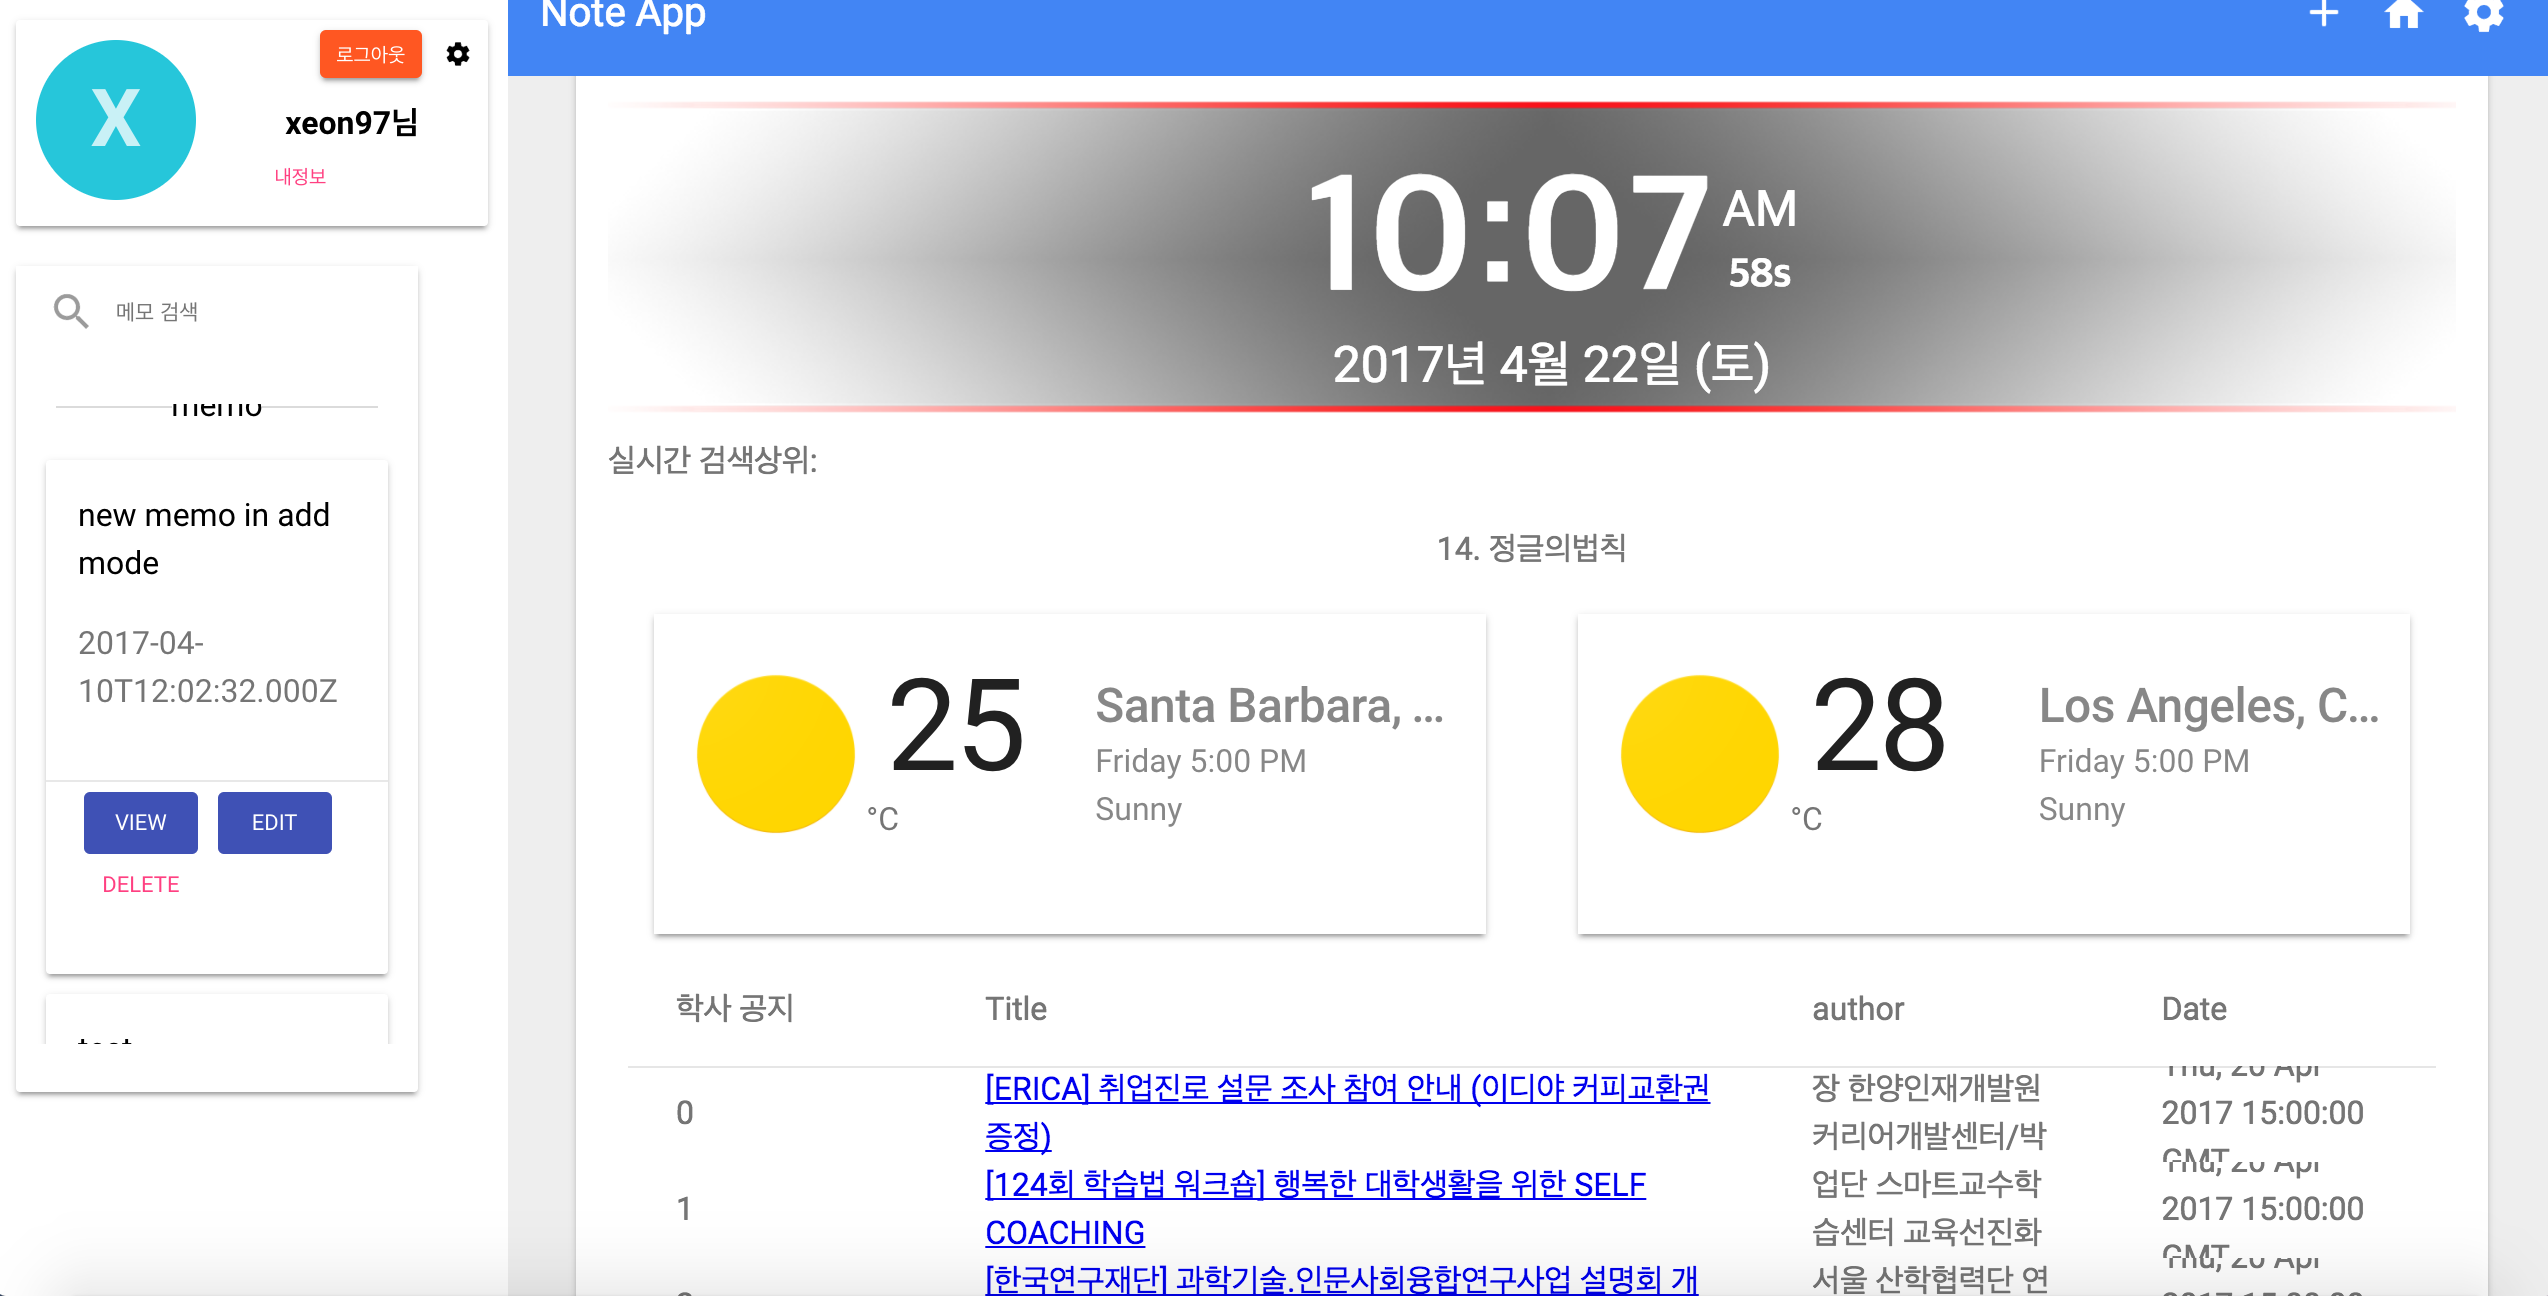
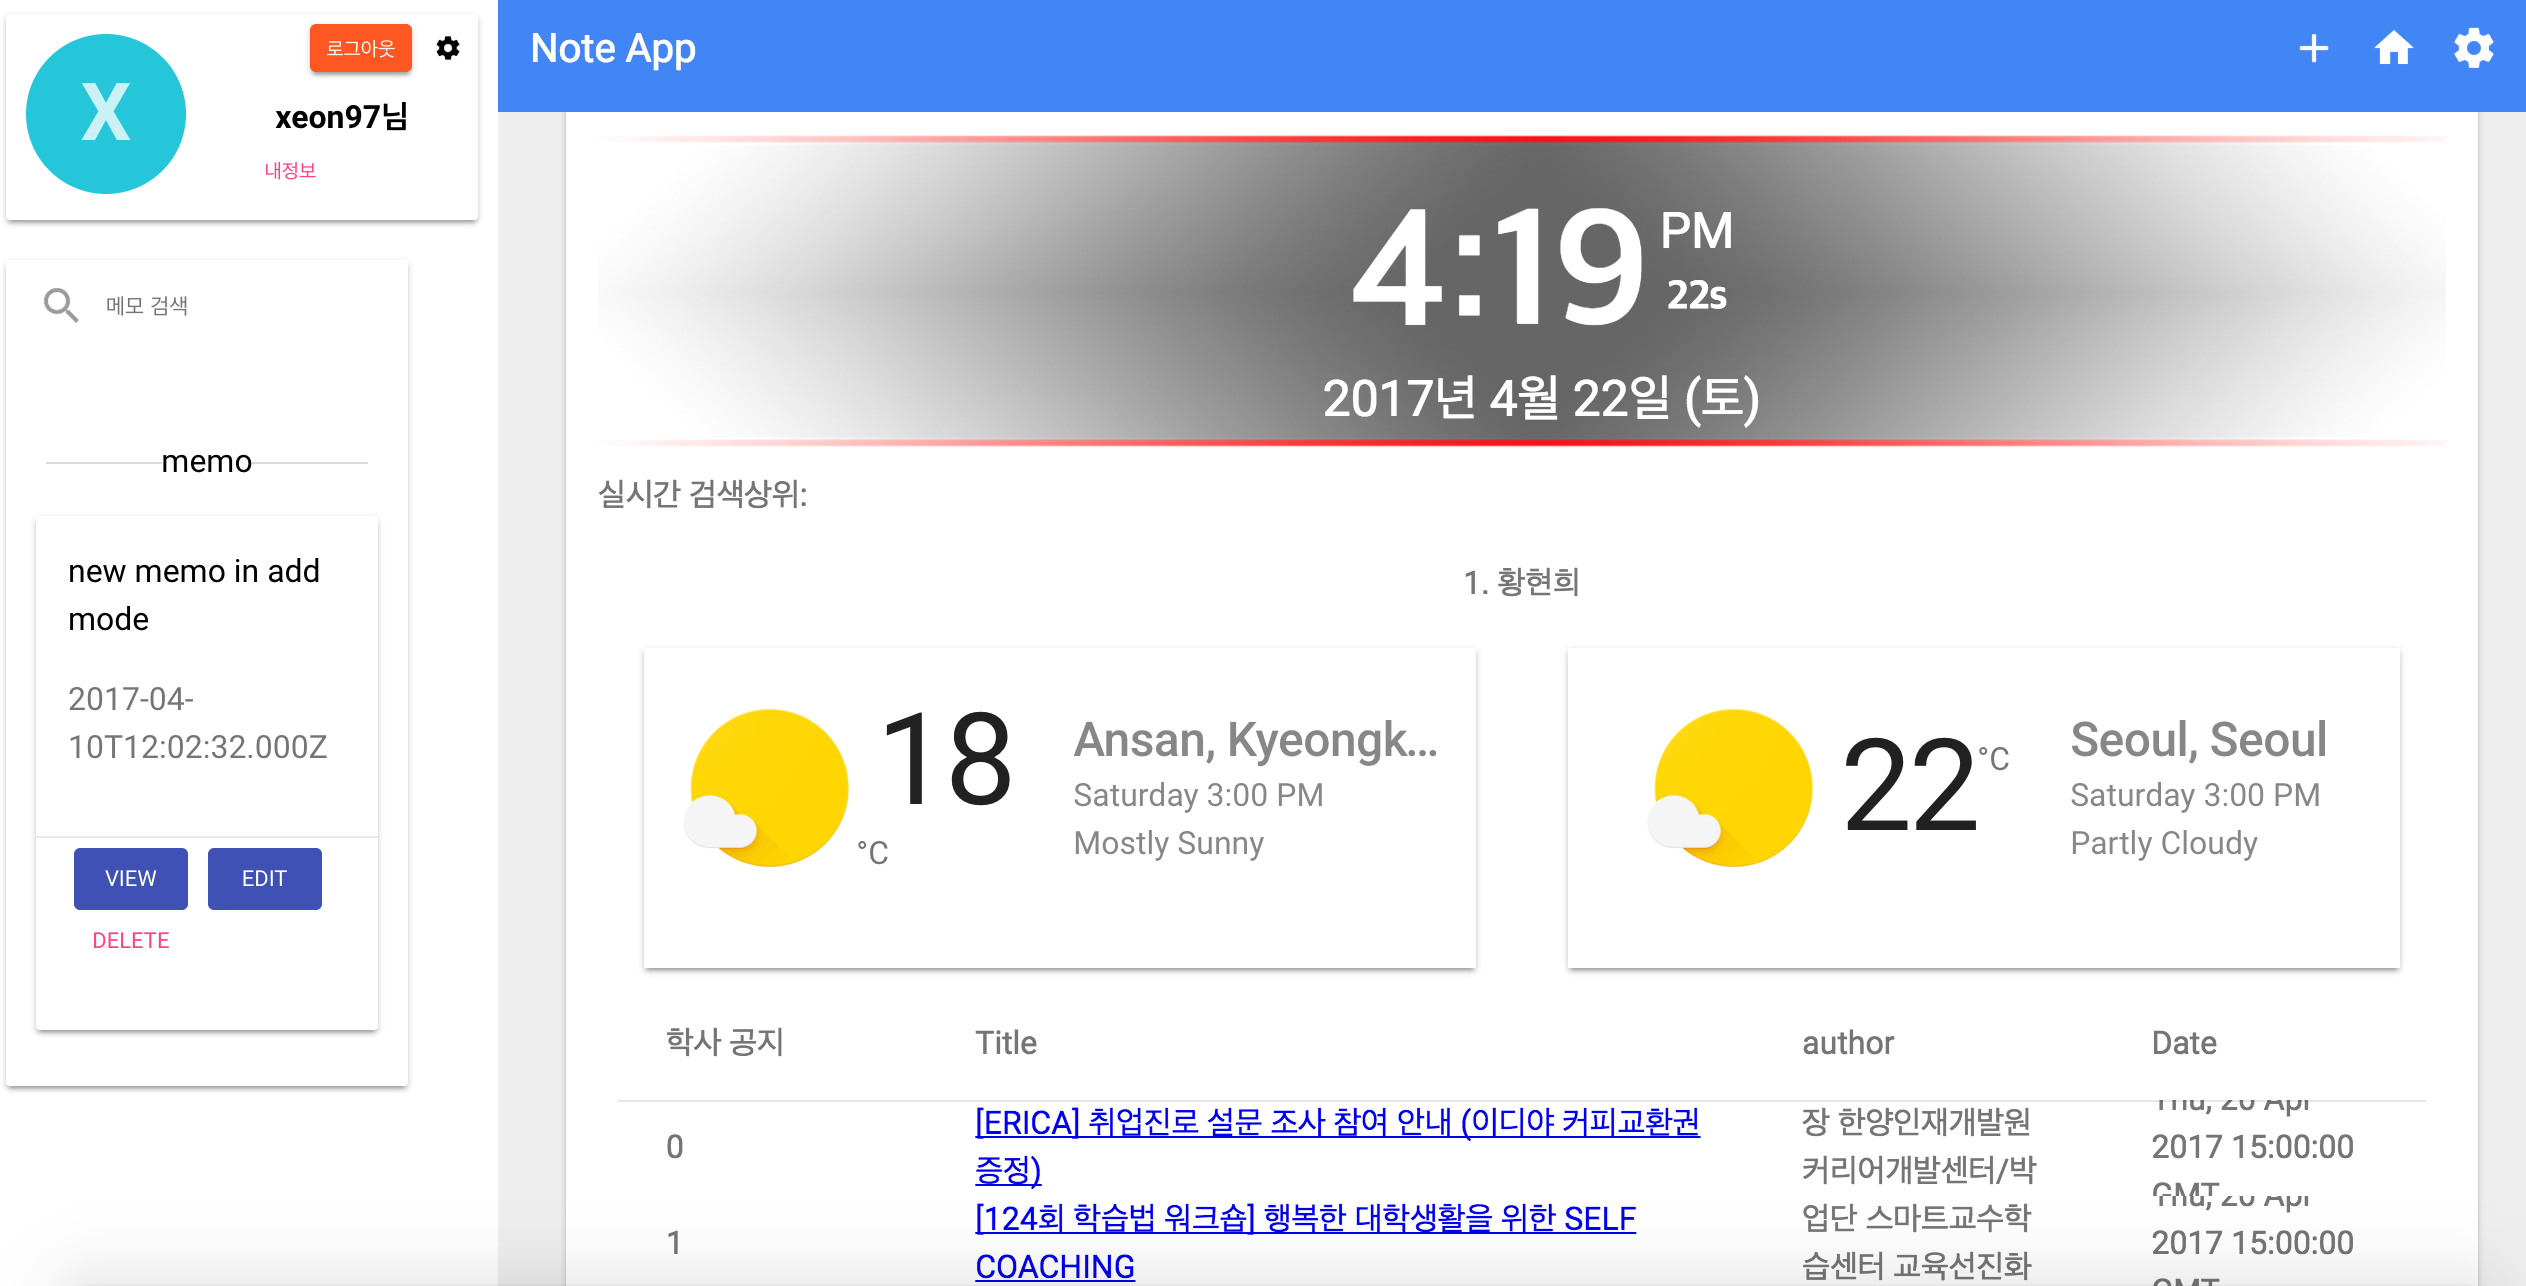
change weather location

diff --git a/Project#3/public/src/daemon-view.html b/Project#3/public/src/daemon-view.html
@@ -106,7 +106,7 @@ subject to an additional IP rights grant found at http://polymer.github.io/PATEN
       properties:{
         location:{
           type:Array,
-          value:["Santa Barbara, CA",'los angeles, ca'],
+          value: ["ansan","seoul"],//["Santa Barbara, CA",'los angeles, ca'],
         },
         naverrankes:{
           type:Array,

diff --git a/Project#3/public/src/my-daemonview.html b/Project#3/public/src/my-daemonview.html
@@ -106,7 +106,7 @@ subject to an additional IP rights grant found at http://polymer.github.io/PATEN
       properties:{
         location:{
           type:Array,
-          value:["Santa Barbara, CA",'los angeles, ca'],
+          value: ["ansan","seoul"],//["Santa Barbara, CA",'los angeles, ca'],
         },
         naverrankes:{
           type:Array,
